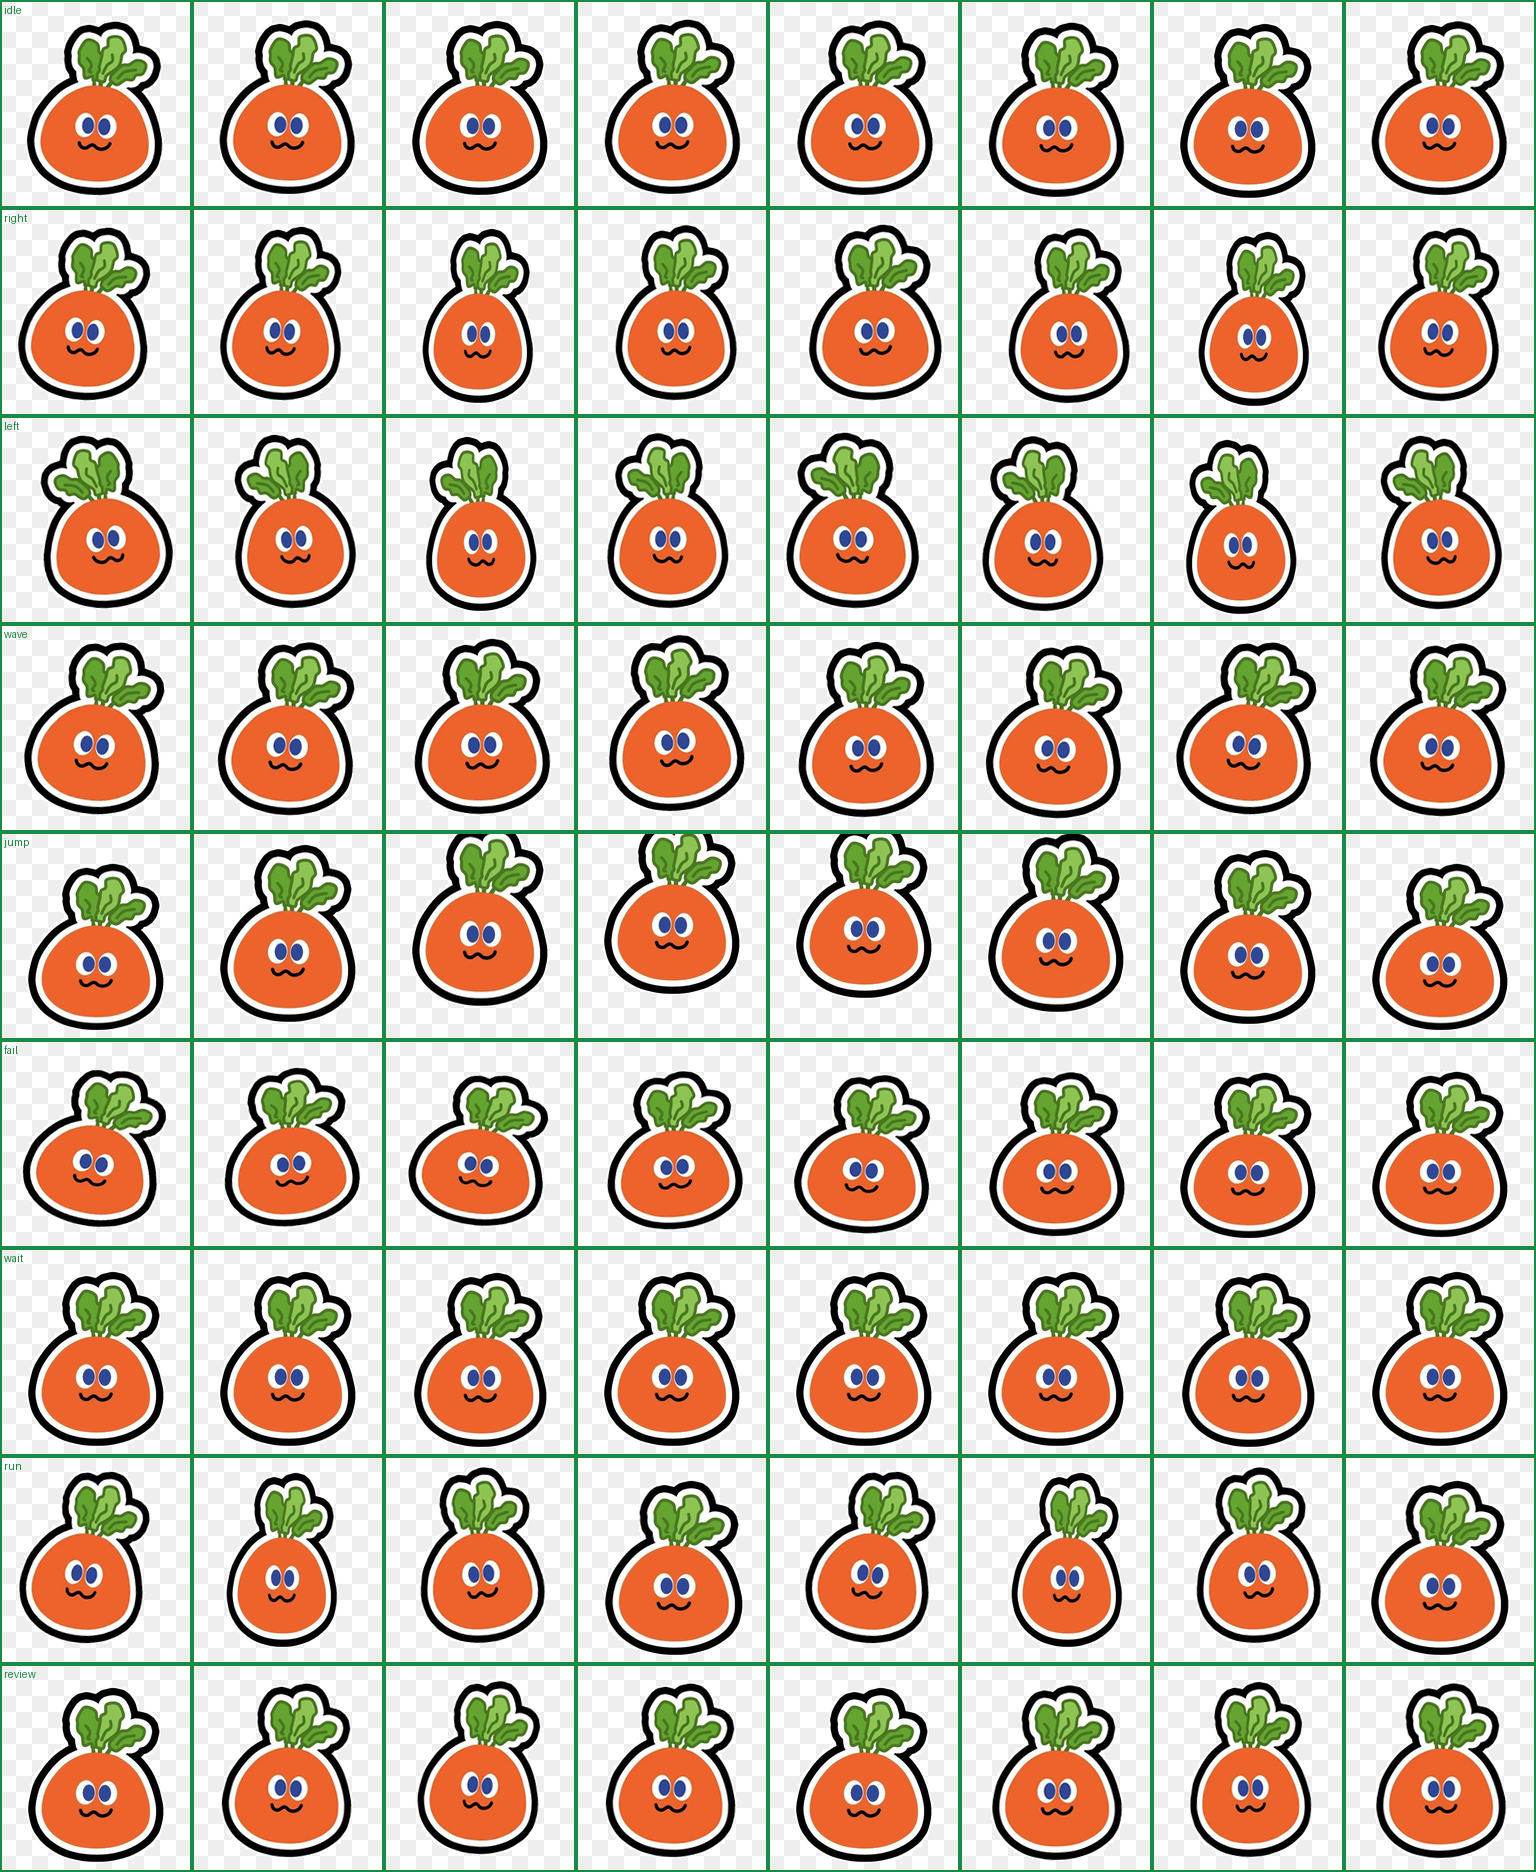
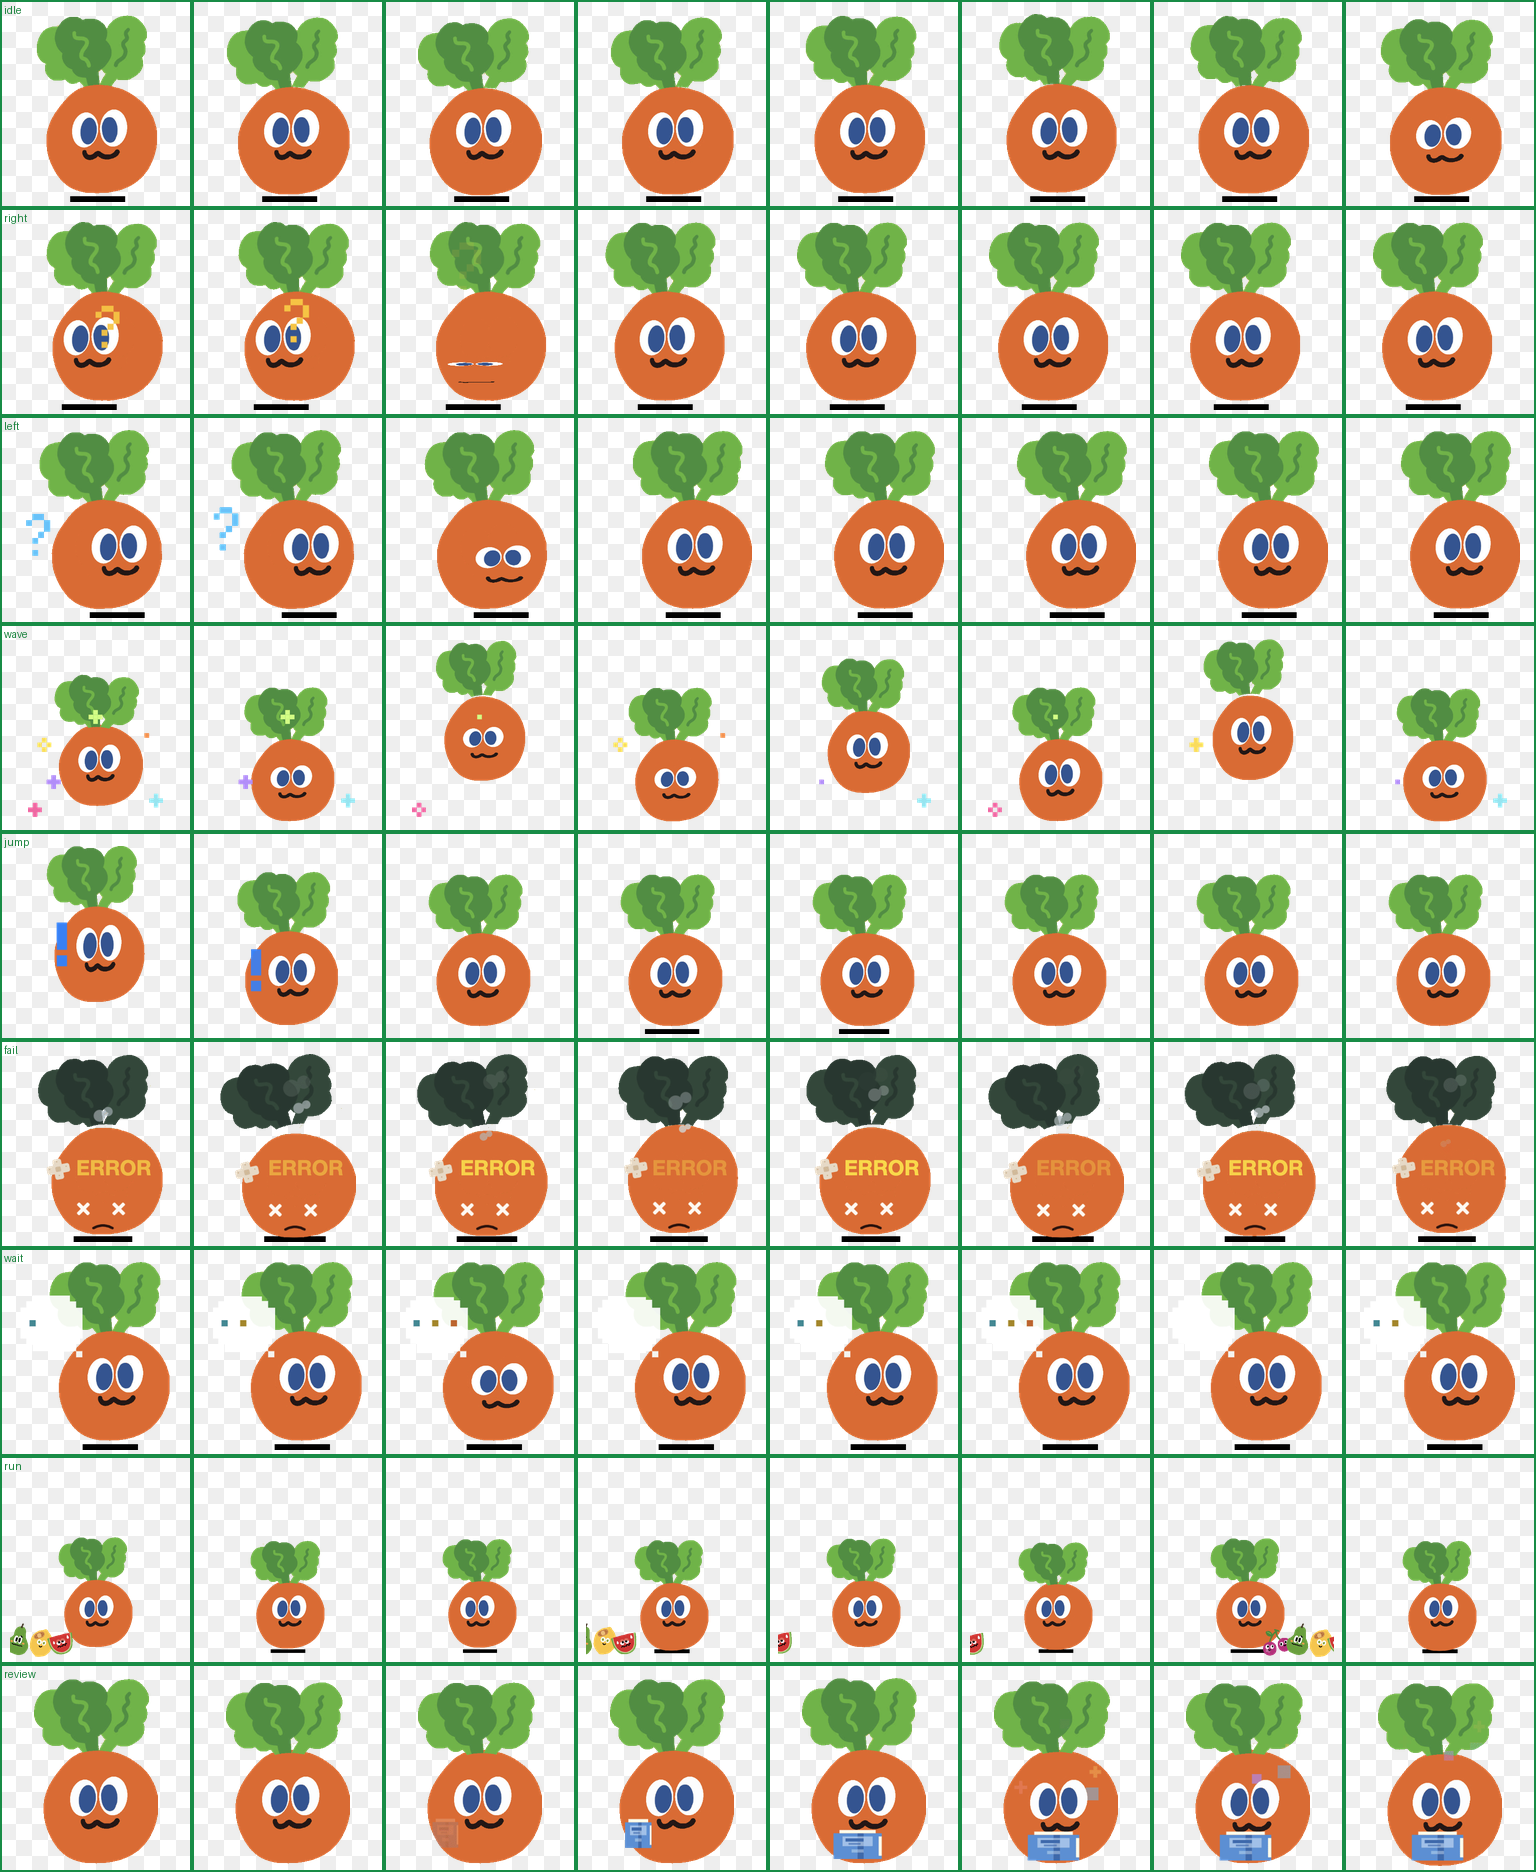
Add v2 animation-cued MOJO Carrot pet

diff --git a/tools/build-v2-from-mojocarrot-on-desk.py b/tools/build-v2-from-mojocarrot-on-desk.py
@@ -1,0 +1,198 @@
+#!/usr/bin/env python3
+"""Build a Codex custom-pet spritesheet from Mojocarrot-on-Desk animation cues.
+
+This script is intentionally narrow: it reads transparent GIF previews from a
+local checkout of lukelei2025/mojocarrot-on-desk and converts selected motion
+ideas into the simple 8 x 9 spritesheet format used by Codex custom pets.
+
+It does not install hooks, start Electron, or copy the source project.
+"""
+
+from __future__ import annotations
+
+import argparse
+from pathlib import Path
+from typing import Iterable
+
+from PIL import Image, ImageDraw, ImageSequence
+
+
+CELL_W = 192
+CELL_H = 208
+COLS = 8
+
+ROWS = [
+    ("idle", "clawd-idle-follow.gif", "calm idle with eye tracking"),
+    ("right", "clawd-react-right.gif", "right-side glance reaction"),
+    ("left", "clawd-react-left.gif", "left-side glance reaction"),
+    ("wave", "clawd-happy.gif", "happy celebration"),
+    ("jump", "clawd-react-double-jump.gif", "surprised jump"),
+    ("fail", "clawd-error.gif", "error state"),
+    ("wait", "clawd-working-thinking.gif", "thinking / waiting"),
+    ("run", "clawd-working-carrying.gif", "busy movement"),
+    ("review", "clawd-idle-reading.gif", "reading / review"),
+]
+
+
+def alpha_bbox(img: Image.Image):
+    return img.getchannel("A").getbbox()
+
+
+def union_bbox(frames: Iterable[Image.Image]):
+    boxes = [alpha_bbox(frame) for frame in frames]
+    boxes = [box for box in boxes if box]
+    if not boxes:
+        return None
+    return (
+        min(box[0] for box in boxes),
+        min(box[1] for box in boxes),
+        max(box[2] for box in boxes),
+        max(box[3] for box in boxes),
+    )
+
+
+def sample_indices(total: int, count: int = COLS) -> list[int]:
+    if total <= 0:
+        raise ValueError("cannot sample empty animation")
+    if total == 1:
+        return [0] * count
+    return [round(i * (total - 1) / (count - 1)) for i in range(count)]
+
+
+def load_sampled_frames(path: Path) -> list[Image.Image]:
+    img = Image.open(path)
+    all_frames = [frame.copy().convert("RGBA") for frame in ImageSequence.Iterator(img)]
+    if not all_frames:
+        raise ValueError(f"no frames found: {path}")
+
+    box = union_bbox(all_frames)
+    if box is None:
+        raise ValueError(f"no visible pixels found: {path}")
+
+    sampled = []
+    for idx in sample_indices(len(all_frames)):
+        sampled.append(all_frames[idx].crop(box))
+    return sampled
+
+
+def fit_to_cell(frame: Image.Image) -> Image.Image:
+    # Leave room for Codex's window chrome and for effects such as sparkles.
+    scale = min(172 / frame.width, 188 / frame.height)
+    w = max(1, round(frame.width * scale))
+    h = max(1, round(frame.height * scale))
+    return frame.resize((w, h), Image.Resampling.LANCZOS)
+
+
+def checkerboard(size: tuple[int, int], tile: int = 16) -> Image.Image:
+    out = Image.new("RGBA", size, (255, 255, 255, 255))
+    draw = ImageDraw.Draw(out)
+    for y in range(0, size[1], tile):
+        for x in range(0, size[0], tile):
+            if (x // tile + y // tile) % 2 == 0:
+                draw.rectangle((x, y, x + tile - 1, y + tile - 1), fill=(238, 238, 238, 255))
+    return out
+
+
+def paste_centered(cell: Image.Image, sprite: Image.Image) -> None:
+    x = (CELL_W - sprite.width) // 2
+    y = CELL_H - sprite.height - 6
+    cell.alpha_composite(sprite, (x, y))
+
+
+def build_motion_preview(sheet: Image.Image, out_path: Path) -> None:
+    sequence = [
+        (0, range(COLS)),
+        (6, range(COLS)),
+        (8, range(COLS)),
+        (7, range(COLS)),
+        (4, range(COLS)),
+        (3, range(COLS)),
+        (5, range(COLS)),
+    ]
+    frames = []
+    for row_idx, cols in sequence:
+        for col in cols:
+            box = (
+                col * CELL_W,
+                row_idx * CELL_H,
+                (col + 1) * CELL_W,
+                (row_idx + 1) * CELL_H,
+            )
+            frame = checkerboard((CELL_W, CELL_H))
+            frame.alpha_composite(sheet.crop(box), (0, 0))
+            frames.append(frame.convert("P", palette=Image.Palette.ADAPTIVE))
+
+    frames[0].save(
+        out_path,
+        save_all=True,
+        append_images=frames[1:],
+        duration=95,
+        loop=0,
+        disposal=2,
+    )
+
+
+def build(reference_root: Path, out_dir: Path) -> None:
+    gif_dir = reference_root / "assets" / "gif"
+    missing = [filename for _, filename, _ in ROWS if not (gif_dir / filename).exists()]
+    if missing:
+        raise FileNotFoundError("missing reference GIFs: " + ", ".join(missing))
+
+    out_dir.mkdir(parents=True, exist_ok=True)
+
+    sheet = Image.new("RGBA", (CELL_W * COLS, CELL_H * len(ROWS)), (0, 0, 0, 0))
+    contact = checkerboard(sheet.size)
+    draw = ImageDraw.Draw(contact)
+
+    manifest_lines = [
+        "# V2 Animation Mapping",
+        "",
+        "Generated from selected animation cues in `lukelei2025/mojocarrot-on-desk`.",
+        "The Codex pet remains a static custom-pet spritesheet; no Electron runtime or hooks are included.",
+        "",
+        "| Codex row | Reference cue | Use |",
+        "|---|---|---|",
+    ]
+
+    for row_idx, (row_name, filename, note) in enumerate(ROWS):
+        frames = load_sampled_frames(gif_dir / filename)
+        manifest_lines.append(f"| `{row_name}` | `{filename}` | {note} |")
+        draw.text((4, row_idx * CELL_H + 4), row_name, fill=(24, 130, 60, 255))
+
+        for col, frame in enumerate(frames):
+            sprite = fit_to_cell(frame)
+            cell = Image.new("RGBA", (CELL_W, CELL_H), (0, 0, 0, 0))
+            paste_centered(cell, sprite)
+
+            x0 = col * CELL_W
+            y0 = row_idx * CELL_H
+            sheet.alpha_composite(cell, (x0, y0))
+            contact.alpha_composite(cell, (x0, y0))
+            draw.rectangle((x0, y0, x0 + CELL_W - 1, y0 + CELL_H - 1), outline=(24, 140, 70, 255), width=2)
+
+    sheet_path = out_dir / "spritesheet-v2.webp"
+    contact_path = out_dir / "contact-sheet-v2.png"
+    motion_path = out_dir / "motion-preview-v2.gif"
+    manifest_path = out_dir / "animation-mapping-v2.md"
+
+    sheet.save(sheet_path, lossless=True, quality=95, method=6)
+    contact.convert("RGB").save(contact_path)
+    build_motion_preview(sheet, motion_path)
+    manifest_path.write_text("\n".join(manifest_lines) + "\n", encoding="utf-8")
+
+    print(sheet_path)
+    print(contact_path)
+    print(motion_path)
+    print(manifest_path)
+
+
+def main() -> None:
+    parser = argparse.ArgumentParser()
+    parser.add_argument("--reference-root", default="/tmp/mojocarrot-on-desk", type=Path)
+    parser.add_argument("--out-dir", default=Path("previews/v2-generated"), type=Path)
+    args = parser.parse_args()
+    build(args.reference_root, args.out_dir)
+
+
+if __name__ == "__main__":
+    main()

diff --git a/NOTICE.md b/NOTICE.md
@@ -1,0 +1,20 @@
+# Notice
+
+This repository is an unofficial fan-made Codex custom pet.
+
+## Character Rights
+
+MOJO CARROT, 五月天/Mayday, STAYREAL, related names, character designs, and artwork belong to their respective rights holders. This repository is not affiliated with, endorsed by, or sponsored by 五月天/Mayday or STAYREAL.
+
+No separate open-source license is granted for the character artwork packaged in this repository.
+
+## Reference Projects
+
+The v2 spritesheet extracts and adapts animation ideas from:
+
+- `lukelei2025/mojocarrot-on-desk`
+- `rullerzhou-afk/clawd-on-desk`
+
+Only a Codex custom-pet spritesheet and supporting install files are packaged here. This repository does not include the Electron runtime, Agent hooks, local HTTP server, auto-updater, or background desktop-pet application from those projects.
+
+Please do not use this project commercially unless you have permission from the relevant rights holders.

diff --git a/docs/animation-mapping-v2.md b/docs/animation-mapping-v2.md
@@ -1,0 +1,16 @@
+# V2 Animation Mapping
+
+Generated from selected animation cues in `lukelei2025/mojocarrot-on-desk`.
+The Codex pet remains a static custom-pet spritesheet; no Electron runtime or hooks are included.
+
+| Codex row | Reference cue | Use |
+|---|---|---|
+| `idle` | `clawd-idle-follow.gif` | calm idle with eye tracking |
+| `right` | `clawd-react-right.gif` | right-side glance reaction |
+| `left` | `clawd-react-left.gif` | left-side glance reaction |
+| `wave` | `clawd-happy.gif` | happy celebration |
+| `jump` | `clawd-react-double-jump.gif` | surprised jump |
+| `fail` | `clawd-error.gif` | error state |
+| `wait` | `clawd-working-thinking.gif` | thinking / waiting |
+| `run` | `clawd-working-carrying.gif` | busy movement |
+| `review` | `clawd-idle-reading.gif` | reading / review |

diff --git a/README.md b/README.md
@@ -2,6 +2,8 @@
 
 一个 fan-made 的 Codex Desktop 自定义窗口宠物，把 Codex 的窗口宠物换成圆滚滚的 MOJO Carrot。
 
+当前 v2 版本提取并转译了 `mojocarrot-on-desk` 的部分角色分层、状态映射和动作节奏，最终仍然是 Codex custom pet 使用的轻量 `8 x 9` spritesheet。这个仓库不包含 Electron 桌宠运行时、Agent hooks、后台服务或端口监听。
+
 ![Motion preview](previews/motion-preview.gif)
 
 ## Preview
@@ -11,8 +13,8 @@
 ## Install
 
 ```bash
-git clone <repo-url>
-cd mojo-carrot-codex-pet
+git clone https://github.com/xiaodinli2/mojo.git
+cd mojo
 ./install.sh
 ```
 
@@ -47,10 +49,14 @@ The uninstall script removes only the copied `mojo-carrot` pet folder. It does n
 - `mojo-carrot/spritesheet.webp`: 8 x 9 transparent spritesheet
 - `previews/contact-sheet.png`: full frame preview
 - `previews/motion-preview.gif`: quick motion preview
+- `docs/animation-mapping-v2.md`: v2 animation row mapping
+- `tools/build-v2-from-mojocarrot-on-desk.py`: optional local generator for rebuilding v2 from a checked-out reference project
 
 ## Credits and Notice
 
 This is an unofficial fan-made Codex pet for personal use. MOJO CARROT, 五月天/Mayday, and STAYREAL related names, character designs, and artwork belong to their respective rights holders. This repository is not affiliated with, endorsed by, or sponsored by 五月天/Mayday or STAYREAL.
+
+The v2 motion mapping and generated spritesheet are informed by the public fan project [`lukelei2025/mojocarrot-on-desk`](https://github.com/lukelei2025/mojocarrot-on-desk), which itself credits [`rullerzhou-afk/clawd-on-desk`](https://github.com/rullerzhou-afk/clawd-on-desk). This project only packages a Codex custom-pet spritesheet and does not redistribute or run the Electron desktop-pet application.
 
 Please do not use this project commercially unless you have permission from the relevant rights holders.
 